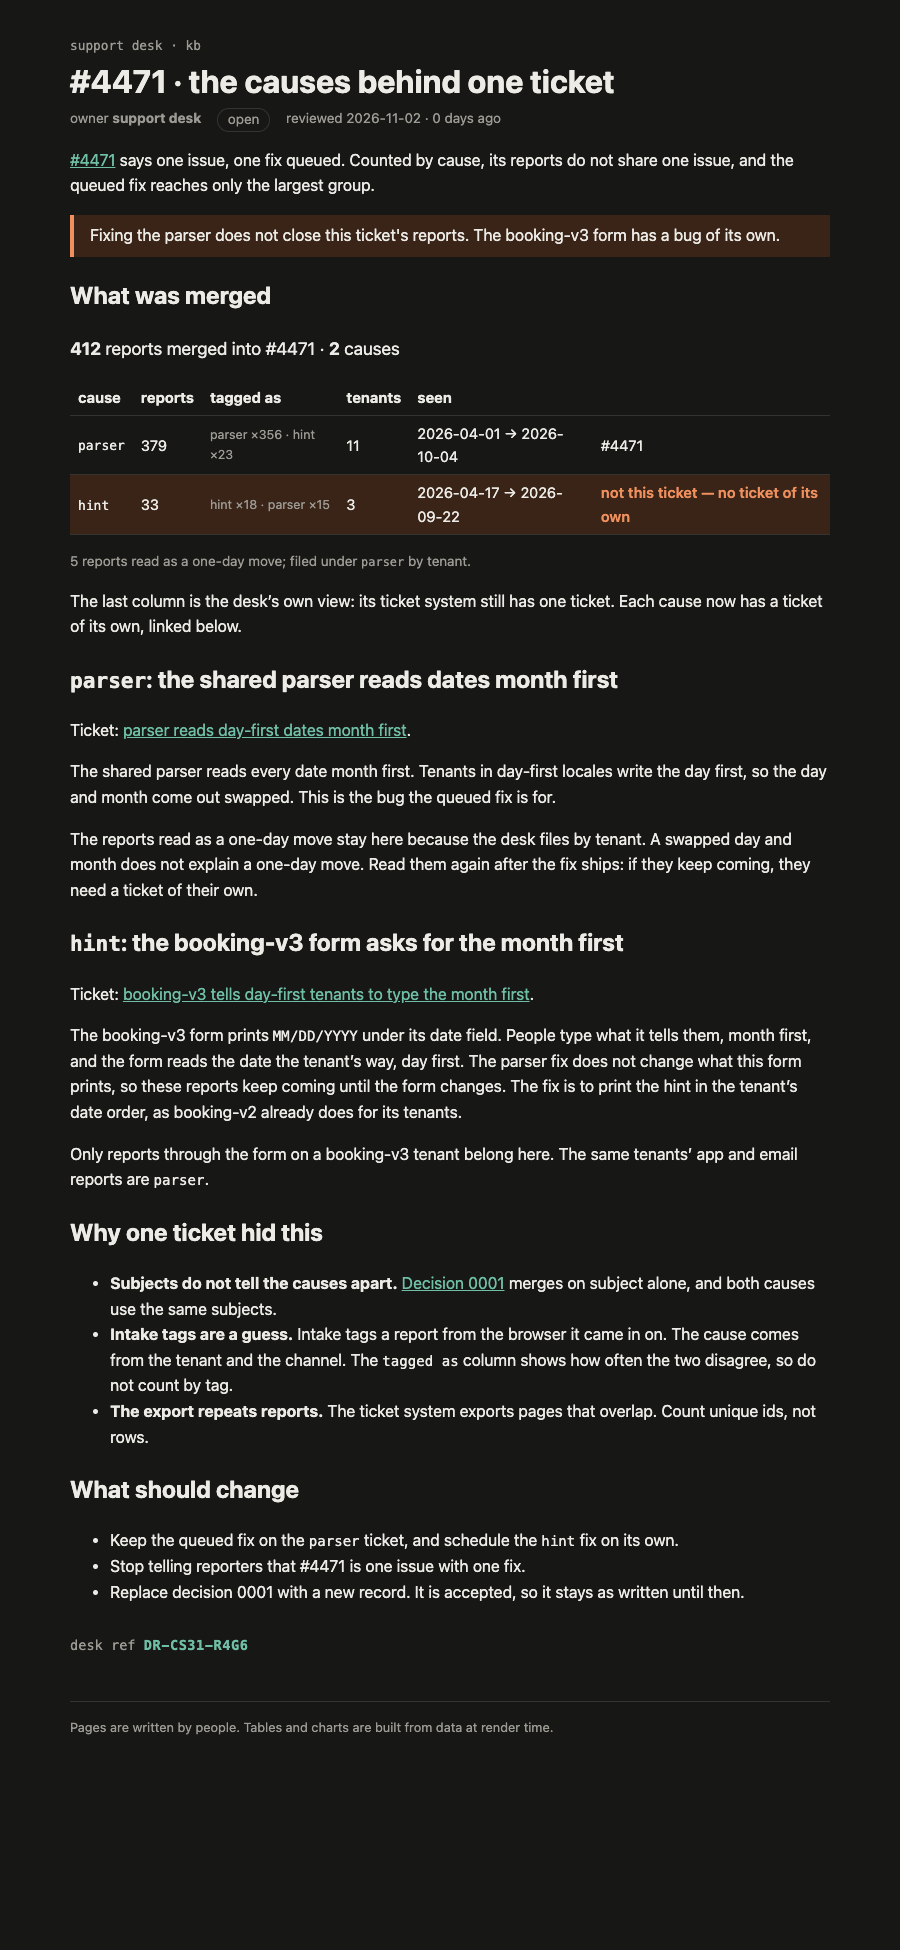
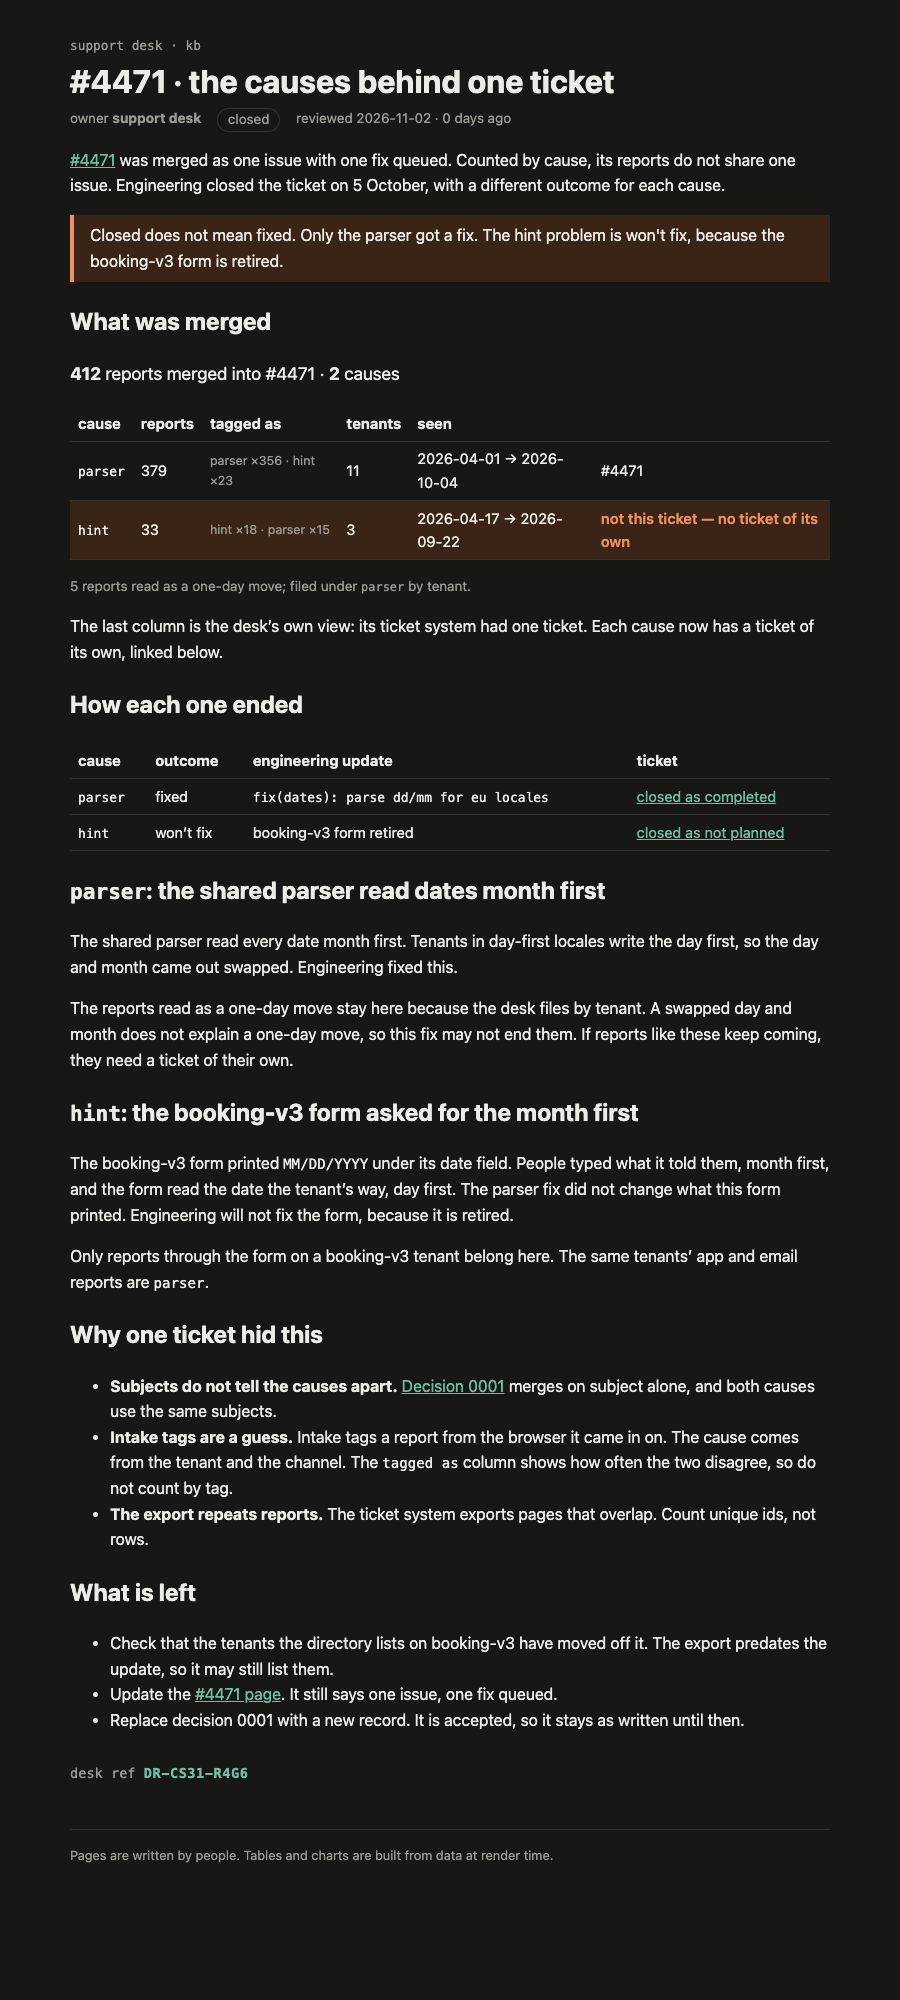
Update the #4471 page with how each cause ended
Engineering closed #4471: parser fixed, hint won't fix because the booking-v3 form is retired. Rebuilt the rendered copy.

Changed region(s): [[0.0622, 0.0308, 0.9333, 0.8923], [0.28, 0.9231, 0.3111, 0.9538]]

diff --git a/rendered/causes.html b/rendered/causes.html
@@ -9,11 +9,11 @@
 		<link href="../../../_app/immutable/chunks/CptVIHXj.js" rel="modulepreload">
 		<link href="../../../_app/immutable/chunks/CHfFqfNT.js" rel="modulepreload">
 		<link href="../../../_app/immutable/chunks/DQG8lHS1.js" rel="modulepreload">
-		<link href="../../../_app/immutable/entry/app.DJbCHROw.js" rel="modulepreload">
+		<link href="../../../_app/immutable/entry/app.Bj9uxULq.js" rel="modulepreload">
 		<link href="../../../_app/immutable/nodes/0.Izv2btRW.js" rel="modulepreload">
 		<link href="../../../_app/immutable/chunks/DK3Fl9T5.js" rel="modulepreload">
-		<link href="../../../_app/immutable/nodes/5.BaP5b-Uc.js" rel="modulepreload">
-		<link href="../../../_app/immutable/chunks/DACi8a7Z.js" rel="modulepreload">
+		<link href="../../../_app/immutable/nodes/5.B5e-Y4d4.js" rel="modulepreload">
+		<link href="../../../_app/immutable/chunks/D35Inh3C.js" rel="modulepreload">
 		<link href="../../../_app/immutable/chunks/DkoUumqI.js" rel="modulepreload">
 		<link href="../../../_app/immutable/chunks/BevyIGF0.js" rel="modulepreload">
 		<link href="../../../_app/immutable/chunks/DcZ9TEUN.js" rel="modulepreload">
@@ -32,32 +32,33 @@ aside.svelte-17bri61{border-left:4px solid var(--accent);background:var(--note-b
 		<link href="../../../_app/immutable/assets/_page.WePi3wDe.css" rel="stylesheet" disabled media="(max-width: 0)">
   </head>
   <body>
-    <div style="display: contents"><!--[--><!--[--><!--[0--><!--[--><!--[--><!--[-1--><!--[--><div class="kb svelte-e2jw2j"><header><a class="crumb svelte-e2jw2j" href="/kb">support desk · kb</a> <h1 class="svelte-e2jw2j">#4471 · the causes behind one ticket</h1> <p class="meta svelte-e2jw2j"><span>owner <b>support desk</b></span> <span class="status open svelte-e2jw2j">open</span> <span class="svelte-e2jw2j">reviewed 2026-11-02 · 0 days ago</span></p></header> <!--[-1--><!--]--> <main><p><a href="/kb/incidents/4471">#4471</a> says one issue, one fix queued. Counted by cause, its reports do not
-share one issue, and the queued fix reaches only the largest group.</p> <aside class="warn svelte-17bri61"><!---->Fixing the parser does not close this ticket's reports. The booking-v3 form has a bug of its own.<!----></aside><!----> <h2>What was merged</h2> <p class="sum svelte-12oyimm"><strong>412</strong> reports merged into #4471 · <strong>2</strong> causes</p> <table><thead><tr><th>cause</th><th>reports</th><th>tagged as</th><th>tenants</th><th>seen</th><th></th></tr></thead><tbody><!--[--><tr class="svelte-12oyimm"><td class="svelte-12oyimm"><code>parser</code></td><td class="svelte-12oyimm">379</td><td class="tags svelte-12oyimm">parser ×356 · hint ×23</td><td class="svelte-12oyimm">11</td><td class="svelte-12oyimm">2026-04-01 → 2026-10-04</td><td class="svelte-12oyimm">#4471</td></tr><tr class="svelte-12oyimm wrong"><td class="svelte-12oyimm"><code>hint</code></td><td class="svelte-12oyimm">33</td><td class="tags svelte-12oyimm">hint ×18 · parser ×15</td><td class="svelte-12oyimm">3</td><td class="svelte-12oyimm">2026-04-17 → 2026-09-22</td><td class="svelte-12oyimm">not this ticket — no ticket of its own</td></tr><!--]--></tbody></table> <!--[--><!--[0--><p class="note svelte-12oyimm">5 reports read as a one-day move; filed under <code>parser</code> by tenant.</p><!--]--><!--[-1--><!--]--><!--]--><!----> <p>The last column is the desk’s own view: its ticket system still has one ticket. Each cause now
-has a ticket of its own, linked below.</p> <h2><code>parser</code>: the shared parser reads dates month first</h2> <p>Ticket: <a href="https://github.com/pdudzinsky/support-kb-4471/issues/1" rel="nofollow">parser reads day-first dates month first</a>.</p> <p>The shared parser reads every date month first. Tenants in day-first locales write the day first,
-so the day and month come out swapped. This is the bug the queued fix is for.</p> <p>The reports read as a one-day move stay here because the desk files by tenant. A swapped day and
-month does not explain a one-day move. Read them again after the fix ships: if they keep coming,
-they need a ticket of their own.</p> <h2><code>hint</code>: the booking-v3 form asks for the month first</h2> <p>Ticket: <a href="https://github.com/pdudzinsky/support-kb-4471/issues/2" rel="nofollow">booking-v3 tells day-first tenants to type the month first</a>.</p> <p>The booking-v3 form prints <code>MM/DD/YYYY</code> under its date field. People type what it tells them,
-month first, and the form reads the date the tenant’s way, day first. The parser fix does not
-change what this form prints, so these reports keep coming until the form changes. The fix is to
-print the hint in the tenant’s date order, as booking-v2 already does for its tenants.</p> <p>Only reports through the form on a booking-v3 tenant belong here. The same tenants’ app and email
+    <div style="display: contents"><!--[--><!--[--><!--[0--><!--[--><!--[--><!--[-1--><!--[--><div class="kb svelte-e2jw2j"><header><a class="crumb svelte-e2jw2j" href="/kb">support desk · kb</a> <h1 class="svelte-e2jw2j">#4471 · the causes behind one ticket</h1> <p class="meta svelte-e2jw2j"><span>owner <b>support desk</b></span> <span class="status closed svelte-e2jw2j">closed</span> <span class="svelte-e2jw2j">reviewed 2026-11-02 · 0 days ago</span></p></header> <!--[-1--><!--]--> <main><p><a href="/kb/incidents/4471">#4471</a> was merged as one issue with one fix queued. Counted by cause, its
+reports do not share one issue. Engineering closed the ticket on 5 October, with a different
+outcome for each cause.</p> <aside class="warn svelte-17bri61"><!---->Closed does not mean fixed. Only the parser got a fix. The hint problem is won't fix, because the booking-v3 form is retired.<!----></aside><!----> <h2>What was merged</h2> <p class="sum svelte-12oyimm"><strong>412</strong> reports merged into #4471 · <strong>2</strong> causes</p> <table><thead><tr><th>cause</th><th>reports</th><th>tagged as</th><th>tenants</th><th>seen</th><th></th></tr></thead><tbody><!--[--><tr class="svelte-12oyimm"><td class="svelte-12oyimm"><code>parser</code></td><td class="svelte-12oyimm">379</td><td class="tags svelte-12oyimm">parser ×356 · hint ×23</td><td class="svelte-12oyimm">11</td><td class="svelte-12oyimm">2026-04-01 → 2026-10-04</td><td class="svelte-12oyimm">#4471</td></tr><tr class="svelte-12oyimm wrong"><td class="svelte-12oyimm"><code>hint</code></td><td class="svelte-12oyimm">33</td><td class="tags svelte-12oyimm">hint ×18 · parser ×15</td><td class="svelte-12oyimm">3</td><td class="svelte-12oyimm">2026-04-17 → 2026-09-22</td><td class="svelte-12oyimm">not this ticket — no ticket of its own</td></tr><!--]--></tbody></table> <!--[--><!--[0--><p class="note svelte-12oyimm">5 reports read as a one-day move; filed under <code>parser</code> by tenant.</p><!--]--><!--[-1--><!--]--><!--]--><!----> <p>The last column is the desk’s own view: its ticket system had one ticket. Each cause now has a
+ticket of its own, linked below.</p> <h2>How each one ended</h2> <table><thead><tr><th>cause</th><th>outcome</th><th>engineering update</th><th>ticket</th></tr></thead><tbody><tr><td><code>parser</code></td><td>fixed</td><td><code>fix(dates): parse dd/mm for eu locales</code></td><td><a href="https://github.com/pdudzinsky/support-kb-4471/issues/1" rel="nofollow">closed as completed</a></td></tr><tr><td><code>hint</code></td><td>won’t fix</td><td>booking-v3 form retired</td><td><a href="https://github.com/pdudzinsky/support-kb-4471/issues/2" rel="nofollow">closed as not planned</a></td></tr></tbody></table> <h2><code>parser</code>: the shared parser read dates month first</h2> <p>The shared parser read every date month first. Tenants in day-first locales write the day first,
+so the day and month came out swapped. Engineering fixed this.</p> <p>The reports read as a one-day move stay here because the desk files by tenant. A swapped day and
+month does not explain a one-day move, so this fix may not end them. If reports like these keep
+coming, they need a ticket of their own.</p> <h2><code>hint</code>: the booking-v3 form asked for the month first</h2> <p>The booking-v3 form printed <code>MM/DD/YYYY</code> under its date field. People typed what it told them,
+month first, and the form read the date the tenant’s way, day first. The parser fix did not
+change what this form printed. Engineering will not fix the form, because it is retired.</p> <p>Only reports through the form on a booking-v3 tenant belong here. The same tenants’ app and email
 reports are <code>parser</code>.</p> <h2>Why one ticket hid this</h2> <ul><li><strong>Subjects do not tell the causes apart.</strong> <a href="/kb/decisions/0001-dedupe-by-subject">Decision 0001</a> merges on subject alone, and both causes use the same subjects.</li> <li><strong>Intake tags are a guess.</strong> Intake tags a report from the browser it came in on. The cause comes
 from the tenant and the channel. The <code>tagged as</code> column shows how often the two disagree, so do
 not count by tag.</li> <li><strong>The export repeats reports.</strong> The ticket system exports pages that overlap. Count unique ids,
-not rows.</li></ul> <h2>What should change</h2> <ul><li>Keep the queued fix on the <code>parser</code> ticket, and schedule the <code>hint</code> fix on its own.</li> <li>Stop telling reporters that #4471 is one issue with one fix.</li> <li>Replace decision 0001 with a new record. It is accepted, so it stays as written until then.</li></ul> <!--[0--><p class="stamp svelte-1280m42">desk ref <b class="svelte-1280m42">DR-CS31-R4G6</b></p><!--]--><!----><!----></main> <footer class="svelte-e2jw2j">Pages are written by people. Tables and charts are built from data at render time.</footer></div><!--]--><!--]--><!--]--><!----><!--]--><!--]--><!--]--><!----> <!--[-1--><!--]--><!--]-->
+not rows.</li></ul> <h2>What is left</h2> <ul><li>Check that the tenants the directory lists on booking-v3 have moved off it. The export predates
+the update, so it may still list them.</li> <li>Update the <a href="/kb/incidents/4471">#4471 page</a>. It still says one issue, one fix queued.</li> <li>Replace decision 0001 with a new record. It is accepted, so it stays as written until then.</li></ul> <!--[0--><p class="stamp svelte-1280m42">desk ref <b class="svelte-1280m42">DR-CS31-R4G6</b></p><!--]--><!----><!----></main> <footer class="svelte-e2jw2j">Pages are written by people. Tables and charts are built from data at render time.</footer></div><!--]--><!--]--><!--]--><!----><!--]--><!--]--><!--]--><!----> <!--[-1--><!--]--><!--]-->
 			
 			<script>
 				{
-					__sveltekit_9315j0 = {
+					__sveltekit_1r2xj2p = {
 						base: new URL("../../..", location).pathname.slice(0, -1),
-						version: "1793629767871"
+						version: "1793629996993"
 					};
 
 					const element = document.currentScript.parentElement;
 
 					import("../../../_app/immutable/entry/start.D1HzdfF7.js").then(async (kit) => {
-						kit.init(__sveltekit_9315j0);
-						const app = await import("../../../_app/immutable/entry/app.DJbCHROw.js");
+						kit.init(__sveltekit_1r2xj2p);
+						const app = await import("../../../_app/immutable/entry/app.Bj9uxULq.js");
 						kit.start(app, element, {
 							node_ids: [0, 5],
 							data: [null,null],
